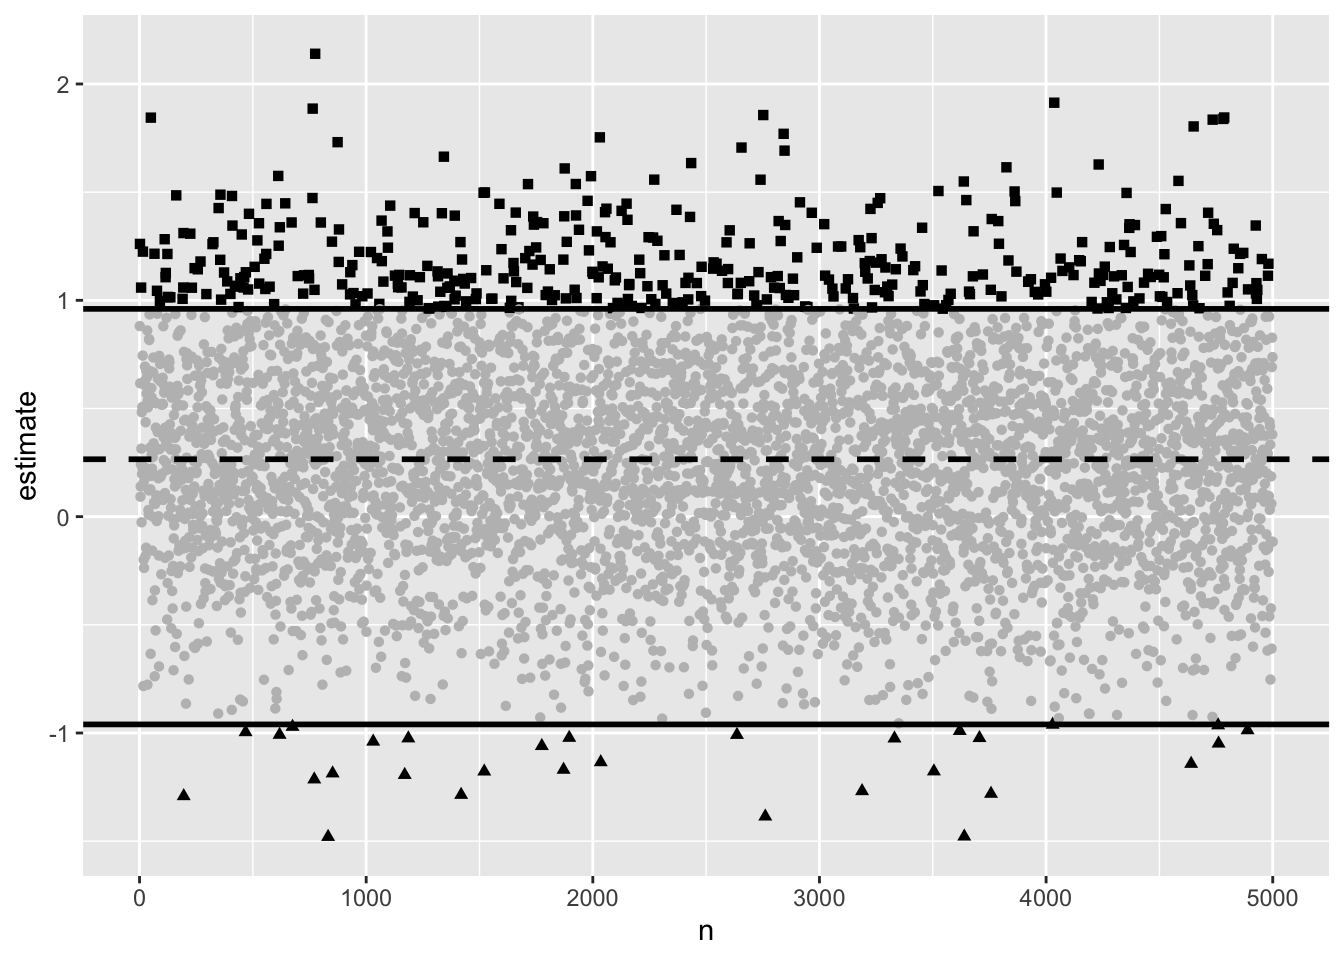
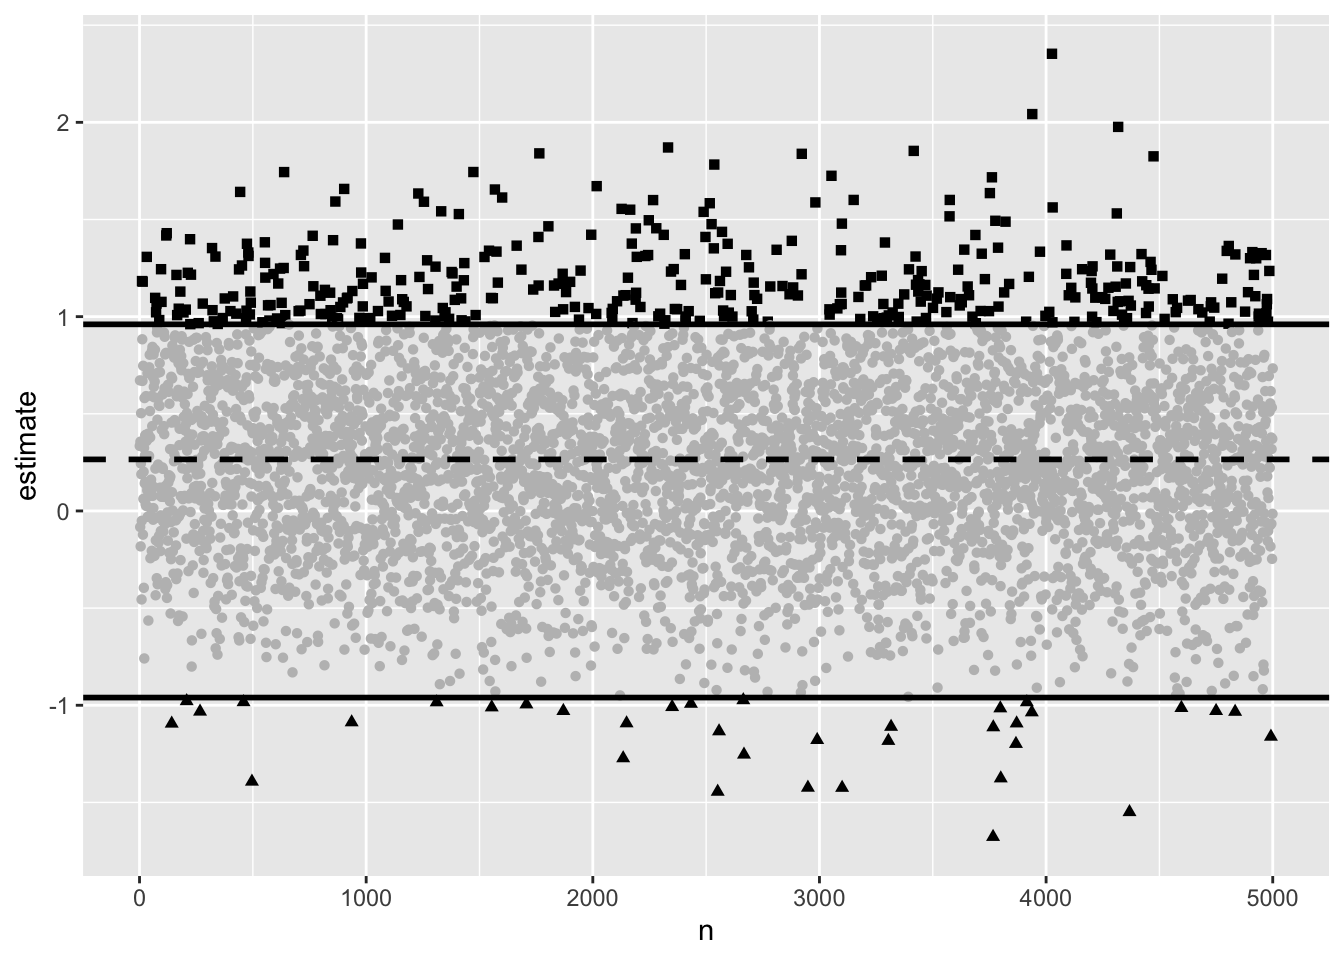
11-3 minor

diff --git a/docs/interactions.html b/docs/interactions.html
@@ -362,8 +362,7 @@ div.csl-indent {
 </header>
 
 
-<p>During the review process a reviewer requested that we provide an analysis of the interaction between the two interventions, free vs low cost and navigator vs no navigator and we provide that analysis below. We had not planed to conduct this analysis for reasons outlined first.</p>
-<p>However, we also acknowledge that many more recent articles about presenting results of factorial trials do suggest that the interaction analysis should be included even when there is inadequate sample size and the interaction is not anticipated. This recommendation occurs even when some of the authors acknowledge the exaggeration errors discussed above. The rationale seems to be that it is more transparent, allows readers to make their own decisions and that appropriate cautions about over-interpretation can be given along side the interaction analysis.</p>
+<p>During the review process a reviewer requested that we provide an analysis of the interaction between the two interventions, free vs low cost and navigator vs no navigator and we provide that analysis below. We had not planned to conduct this analysis for reasons outlined first.</p>
 <section id="rationale-for-not-examining-interactions" class="level2" data-number="15.1">
 <h2 data-number="15.1" class="anchored" data-anchor-id="rationale-for-not-examining-interactions"><span class="header-section-number">15.1</span> Rationale for not examining interactions</h2>
 <section id="lack-of-prior-belief-in-a-mechanism-of-interaction" class="level3" data-number="15.1.1">
@@ -415,7 +414,7 @@ $type_s
 [1] 0.07344817
 
 $type_m
-[1] 4.378194</code></pre>
+[1] 4.46138</code></pre>
 </div>
 </div>
 <p>The design analysis shows the power to detect the interaction is 0.07 and the type M error is 4.4 (based on the observed standard error for the interaction from the interaction analysis below and the upper limit of the likely true effect size). This suggests that if one observed a statistically significant effect it would be on average over four times as large as the true effect. There is a 7% chance that the sign would be in the opposite direction to the true effect.</p>
@@ -434,6 +433,7 @@ $type_m
 </div>
 </div>
 <p>We see that under the conditions of low power to detect the interaction, the majority of data samples which might be declared signficicant due to a type 1 error would be severely exaggerated relative to the proposed true effect.</p>
+<p>However, more recent articles about how to present results of factorial trials do tend to suggest that the interaction analysis should be included as a sensitivity analysis <em>even when there is inadequate sample size and the interaction is not anticipated</em>. This recommendation occurs even when some of the authors acknowledge the risk of exaggeration errors discussed below. The rationale seems to be that it is more transparent, allows readers to make their own decisions and that appropriate cautions about over-interpretation can be given along side the interaction analysis.</p>
 </section>
 </section>
 </section>
